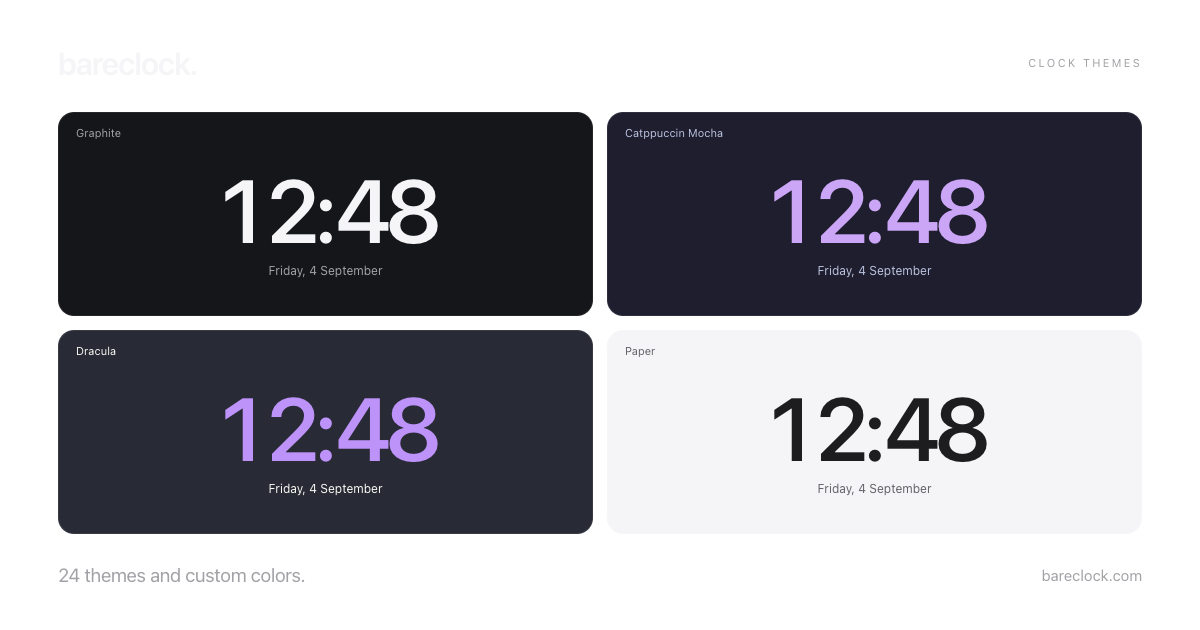
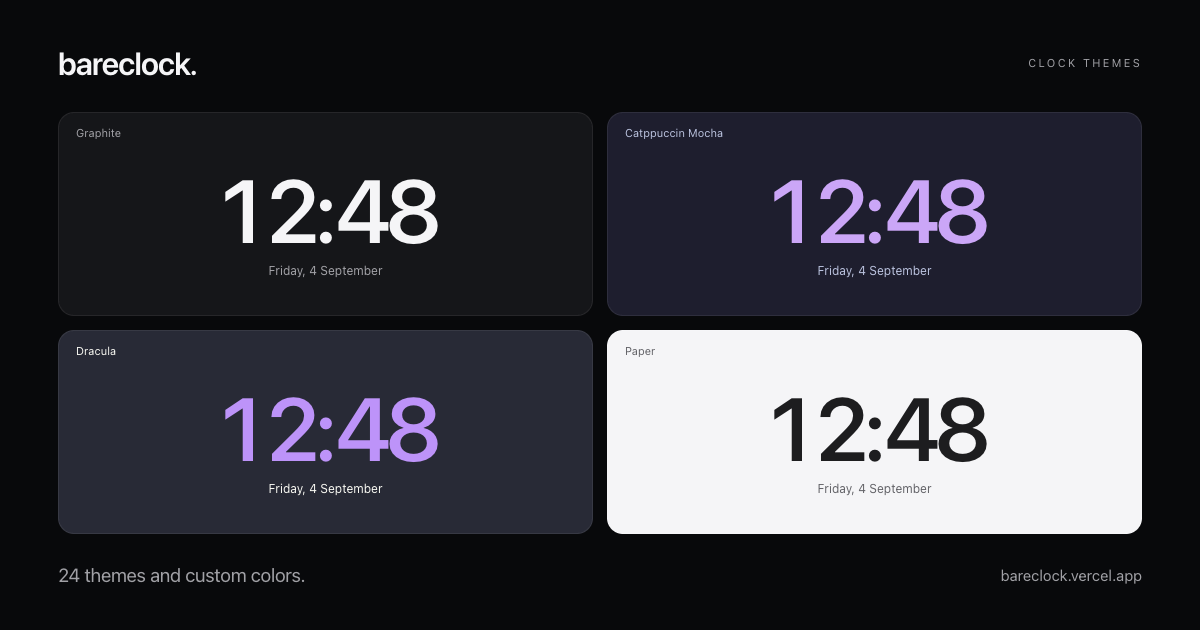
Big fixessss

diff --git a/styles.css b/styles.css
@@ -44,7 +44,7 @@ kbd { font:10px "SFMono-Regular",Consolas,monospace; border:1px solid var(--line
 .chrome { transition:opacity .4s; }
 .idle .chrome { opacity:0; }
 .idle .chrome:focus-within,.idle .chrome:hover { opacity:1; }
-.world-rail { width:174px; flex-shrink:0; align-self:center; max-height:100%; display:flex; flex-direction:column; }
+.world-rail { width:192px; flex-shrink:0; align-self:center; max-height:100%; display:flex; flex-direction:column; }
 .rail-heading { display:flex; justify-content:space-between; align-items:center; margin:0 0 10px 2px; color:var(--faint); font-size:9px; letter-spacing:2px; }
 .world-list { display:flex; flex-direction:column; gap:10px; overflow:auto; scrollbar-width:thin; scrollbar-color:var(--line) transparent; padding:3px; }
 .world-tile { position:relative; display:flex; flex-direction:column; text-align:left; background:var(--card); border:1px solid transparent; border-radius:18px; min-height:144px; flex-shrink:0; padding:0; transition:border-color .15s,background .15s; }
@@ -52,11 +52,14 @@ kbd { font:10px "SFMono-Regular",Consolas,monospace; border:1px solid var(--line
 .world-tile:has(.world-select[aria-pressed="true"]) { border-color:var(--faint); }
 .world-city { font-size:13px; font-weight:500; color:var(--muted); white-space:nowrap; overflow:hidden; text-overflow:ellipsis; max-width:100%; }
 .world-time { display:flex; align-items:baseline; gap:6px; font-size:34px; letter-spacing:-1.3px; font-weight:var(--digit-weight); font-variant-numeric:tabular-nums; margin:10px 0 6px; }
-.world-time small { font-size:10px; letter-spacing:0; color:var(--muted); }
+.world-time small { flex-shrink:0; font-size:.8em; font-weight:600; letter-spacing:.02em; color:var(--muted); }
 .world-relative { font-size:12px; color:var(--muted); }
-.world-rail.compact .world-tile { min-height:104px; padding:0; }
-.world-rail.compact .world-select { padding:13px 16px; }
-.world-rail.compact .world-time { font-size:28px; margin:7px 0 4px; }
+.world-rail.large { width:232px; }
+.world-rail.large .world-tile { min-height:170px; }
+.world-rail.large .world-select { padding:24px 22px; }
+.world-rail.large .world-time { font-size:40px; margin:12px 0 8px; }
+.world-rail.large .world-city { font-size:15px; }
+.world-rail.large .world-relative { font-size:14px; }
 
 /* Each flip leaf contains two clipped copies, hinged at the center. */
 .time-display.style-flip { font-size:calc(clamp(48px,23vw,310px) * var(--clock-scale)); font-size:calc(clamp(48px,23cqw,310px) * var(--clock-scale)); letter-spacing:-.045em; gap:0; align-items:center; margin:32px auto 30px; font-weight:500; }
@@ -148,7 +151,7 @@ h2 { font-size:12px; font-weight:400; margin:0; }
 .picker-note { font-size:10px; color:var(--faint); border-top:1px solid var(--line); padding:16px 24px; margin:10px 0 0; }
 .notice { position:fixed; bottom:28px; left:50%; transform:translateX(-50%); background:var(--panel); color:var(--fg); border:1px solid var(--line); border-radius:8px; padding:12px 18px; font-size:12px; box-shadow:var(--shadow); z-index:20; max-width:calc(100% - 32px); width:max-content; }
 .no-script { position:fixed; top:45%; width:100%; text-align:center; }
-@media (min-width:1500px) { .app { padding:0 64px; } .world-rail { width:178px; } .world-tile { min-height:150px; } }
+@media (min-width:1500px) { .app { padding:0 64px; } .world-rail { width:192px; } .world-tile { min-height:150px; } }
 @media (min-width:740px) {
   body:has(#settings-dialog[open]) .clock-layout { margin-right:348px; }
   body:has(#settings-dialog[open]) .world-rail { display:none; }
@@ -166,12 +169,12 @@ h2 { font-size:12px; font-weight:400; margin:0; }
   .place { font-size:17px; }
   .date-display { font-size:18px; }
   .keyboard-hints { display:none; }
-  .world-rail { width:100%; max-height:190px; padding-bottom:2px; }
+  .world-rail,.world-rail.large { width:100%; max-height:218px; padding-bottom:2px; }
   .rail-heading { margin-bottom:6px; }
   .world-list { flex-direction:row; }
-  .world-tile { width:154px; min-height:130px; padding:0; }
+  .world-tile { width:184px; min-height:130px; padding:0; }
   .world-select { padding:16px; }
-  .world-rail.compact .world-tile { width:140px; }
+  .world-rail.large .world-tile { width:224px; min-height:160px; }
   .time-display.style-flip { font-size:calc(24cqw * var(--clock-scale)); }
   .time-display.style-flip.has-seconds { font-size:calc(16cqw * var(--clock-scale)); }
   .time-display.style-digital { font-size:calc(26cqw * var(--clock-scale)); }
@@ -273,6 +276,19 @@ dialog { overscroll-behavior:contain; scrollbar-width:thin; scroll-padding-block
 .timezone-row > div { min-width:0; overflow-wrap:anywhere; }
 .text-button,.size-presets button,.theme-filters button,.about-link { min-height:32px; }
 .about-link { display:inline-flex; align-items:center; gap:8px; color:var(--muted); font-size:11px; text-underline-offset:4px; margin:0 0 12px; }
+.about-link { padding:0; text-decoration:underline; }
+.about-dialog { width:400px; max-width:calc(100% - 24px); max-height:calc(100vh - 24px); max-height:calc(100dvh - 24px); margin:auto; border-radius:20px; overflow:auto; color:var(--guide-fg); background:var(--guide-panel); border-color:var(--guide-line); }
+.about-dialog::backdrop { background:#0006; background:color-mix(in srgb,var(--guide-bg) 64%,transparent); }
+.about-heading { display:flex; align-items:center; justify-content:space-between; gap:16px; padding:20px 20px 0 24px; }
+.about-heading h2 { margin:0; font-size:24px; font-weight:600; letter-spacing:-.5px; }
+.about-dialog .icon-button { color:var(--guide-muted); }
+.about-dialog .icon-button:hover { color:var(--guide-fg); background:var(--guide-bg); }
+.about-content { padding:8px 24px 28px; font-size:14px; line-height:1.6; }
+.about-content > p { margin:0 0 16px; }
+.about-content > p:nth-child(2) { color:var(--guide-muted); }
+.about-content .creator-line { margin:24px 0 12px; color:var(--guide-muted); }
+.about-content .signature { color:var(--guide-fg); }
+.about-source { color:var(--guide-fg); font-size:13px; text-underline-offset:4px; }
 .theme-card:focus-visible,.city-result:focus-visible,.style-option:focus-visible { outline-offset:2px; }
 .world-select:focus-visible { outline-offset:-4px; }
 .size-slider { min-height:28px; }
@@ -467,8 +483,8 @@ dialog { overscroll-behavior:contain; scrollbar-width:thin; scroll-padding-block
 .map-zone-line { stroke:var(--display-time,var(--fg)); stroke-width:1.4; opacity:.72; }
 .map-zone-label { position:absolute; z-index:2; left:clamp(34px,var(--zone-x),calc(100% - 34px)); bottom:2.5%; translate:-50% 0; padding:3px 5px; border-radius:4px; color:var(--display-details,var(--muted)); background:var(--display-background,var(--bg)); font-size:9px; font-weight:650; line-height:1; letter-spacing:.8px; font-variant-numeric:tabular-nums; white-space:nowrap; }
 .map-face::after { content:""; position:absolute; inset:0; z-index:2; background:radial-gradient(ellipse 34% 29% at center,var(--display-background,var(--bg)) 10%,transparent 100%); pointer-events:none; }
-.map-time { position:absolute; inset:0; z-index:3; display:flex; align-items:center; justify-content:center; font-weight:var(--digit-weight); letter-spacing:-.055em; }
-.map-time-main { font-size:calc(clamp(70px,20cqw,220px) * var(--clock-scale)); }
+.map-time { position:absolute; inset:0; z-index:3; display:flex; align-items:center; justify-content:center; font-weight:var(--digit-weight); letter-spacing:normal; }
+.map-time-main { font-size:calc(clamp(70px,20cqw,220px) * var(--clock-scale)); letter-spacing:-.025em; }
 .map-seconds { font-size:calc(clamp(12px,3cqw,30px) * var(--clock-scale)); color:var(--display-details,var(--muted)); letter-spacing:0; margin:.4em 0 0 .55em; }
 .map-period { position:static; align-self:center; margin:.8em 0 0 .65em; font-size:clamp(11px,1.5cqw,17px); opacity:.82; }
 @media (max-width:700px) { .map-face { width:100%; width:min(100%,76dvh); height:min(43vw,38vh); } .map-time-main { font-size:calc(27vw * var(--clock-scale)); font-size:calc(27cqw * var(--clock-scale)); } .map-period { margin-top:.9em; font-size:11px; } .map-zone-label { font-size:8px; } }
@@ -516,9 +532,13 @@ button.primary-button:hover:not(:disabled),button.primary-button:focus-visible {
   .time-display.style-world { margin:0 auto 7px; }
   .map-face { width:min(68vw,84vh,300px); width:min(68cqw,84dvh,300px); height:min(34vw,42vh,150px); }
   .map-time-main { font-size:calc(min(16cqw,26dvh,110px) * var(--clock-scale)); }
-  .world-rail { width:150px; max-height:100%; padding:0; }
+  .world-rail { width:172px; max-height:100%; padding:0; }
   .world-list { flex-direction:column; }
-  .world-tile,.world-rail.compact .world-tile { width:100%; min-height:104px; }
+  .world-tile { width:100%; min-height:104px; }
+  .world-rail.large { width:208px; max-height:100%; }
+  .world-rail.large .world-tile { width:100%; min-height:132px; }
+  .world-rail.large .world-select { padding:16px 18px; }
+  .world-rail.large .world-time { font-size:36px; margin:8px 0 6px; }
   .world-select { padding:13px 15px; }
   .world-time { font-size:28px; margin:7px 0 4px; }
   .footer-left { gap:8px; }

diff --git a/index.html b/index.html
@@ -10,21 +10,21 @@
   <meta property="og:description" content="A simple fullscreen clock with world clocks, themes, and custom colors.">
   <meta property="og:type" content="website">
   <title>bareclock | Free Online Clock &amp; World Clocks</title>
-  <link rel="canonical" href="https://bareclock.com/">
+  <link rel="canonical" href="https://bareclock.vercel.app/">
   <meta name="robots" content="index, follow, max-image-preview:large">
   <meta property="og:site_name" content="bareclock">
-  <meta property="og:url" content="https://bareclock.com/">
-  <meta property="og:image" content="https://bareclock.com/assets/og/bareclock.png">
+  <meta property="og:url" content="https://bareclock.vercel.app/">
+  <meta property="og:image" content="https://bareclock.vercel.app/assets/og/bareclock.png">
   <meta property="og:image:width" content="1200">
   <meta property="og:image:height" content="630">
   <meta property="og:image:alt" content="bareclock showing 12:48 on a dark background.">
   <meta name="twitter:card" content="summary_large_image">
   <meta name="twitter:title" content="bareclock | A clock for your browser">
   <meta name="twitter:description" content="A free fullscreen clock with world clocks, flip and digital styles, and 24 themes. No account needed.">
-  <meta name="twitter:image" content="https://bareclock.com/assets/og/bareclock.png">
+  <meta name="twitter:image" content="https://bareclock.vercel.app/assets/og/bareclock.png">
   <meta name="twitter:image:alt" content="bareclock showing 12:48 on a dark background.">
   <link rel="apple-touch-icon" href="./assets/icons/apple-touch-icon.png">
-  <script type="application/ld+json">{"@context":"https://schema.org","@type":"WebApplication","name":"bareclock","url":"https://bareclock.com/","description":"A free online clock with fullscreen, world clocks, flip and digital styles, and customizable themes.","applicationCategory":"UtilitiesApplication","operatingSystem":"Any","browserRequirements":"Requires JavaScript and a modern web browser.","isAccessibleForFree":true,"offers":{"@type":"Offer","price":"0","priceCurrency":"USD"},"author":{"@type":"Person","name":"Rajin Khan","url":"https://rajinkhan.com"},"image":"https://bareclock.com/assets/og/bareclock.png"}</script>
+  <script type="application/ld+json">{"@context":"https://schema.org","@type":"WebApplication","name":"bareclock","url":"https://bareclock.vercel.app/","description":"A free online clock with fullscreen, world clocks, flip and digital styles, and customizable themes.","applicationCategory":"UtilitiesApplication","operatingSystem":"Any","browserRequirements":"Requires JavaScript and a modern web browser.","isAccessibleForFree":true,"offers":{"@type":"Offer","price":"0","priceCurrency":"USD"},"author":{"@type":"Person","name":"Rajin Khan","url":"https://rajinkhan.com"},"image":"https://bareclock.vercel.app/assets/og/bareclock.png"}</script>
   <link rel="icon" href="./icon.svg" type="image/svg+xml">
   <link rel="manifest" href="./manifest.webmanifest">
   <script>
@@ -142,7 +142,7 @@
       <p id="saved-empty" class="muted empty-message">No cities added yet.</p>
       <div id="saved-cities" class="saved-cities"></div>
       <label class="setting-row" for="show-world"><span>Show world clocks</span><input type="checkbox" id="show-world" class="switch"></label>
-      <div class="setting-row"><label for="tile-size">Tile size</label><select id="tile-size"><option value="comfortable">Comfortable</option><option value="compact">Compact</option></select></div>
+      <div class="setting-row"><label for="tile-size">Tile size</label><select id="tile-size"><option value="compact">Compact</option><option value="large">Large</option></select></div>
       <div class="section-divider"></div>
       <label class="setting-row wake-row" for="keep-awake"><span><span class="setting-label"><svg><use href="#i-clockmark"/></svg>Keep screen awake</span><small id="awake-status">While this tab is visible</small></span><input type="checkbox" id="keep-awake" class="switch"></label>
       <p id="offline-status" class="panel-note" role="status">Preferences stay in this browser.</p>
@@ -150,7 +150,7 @@
       <section class="settings-credit" aria-label="About bareclock">
         <p class="credit-wordmark">bareclock.</p>
         <p class="credit-note">A clock for your browser.</p>
-        <a class="about-link" href="./about/">About and help <span aria-hidden="true">↗</span></a>
+        <button id="about-button" class="about-link" aria-haspopup="dialog">About</button>
         <p class="creator-line"><span>Made by</span><a class="signature" href="https://rajinkhan.com" target="_blank" rel="noopener noreferrer" aria-label="Visit Rajin Khan's website">Rajin Khan</a></p>
 
         <details class="credit-sources"><summary>Credits & sources</summary>
@@ -158,6 +158,16 @@
           <p>City data by <a href="https://www.geonames.org/" target="_blank" rel="noopener noreferrer">GeoNames</a>, <a href="https://creativecommons.org/licenses/by/4.0/" target="_blank" rel="noopener noreferrer">CC BY 4.0</a>. Map data by <a href="https://www.naturalearthdata.com/" target="_blank" rel="noopener noreferrer">Natural Earth</a>. Font license: <a href="./assets/fonts/OFL.txt" target="_blank" rel="noopener noreferrer">SIL OFL 1.1</a>.</p>
         </details>
       </section>
+    </div>
+  </dialog>
+
+  <dialog id="about-dialog" class="about-dialog" aria-labelledby="about-title">
+    <div class="about-heading"><h2 id="about-title">About</h2><button class="icon-button" data-close="about-dialog" aria-label="Close about" autofocus><svg><use href="#i-close"/></svg></button></div>
+    <div class="about-content">
+      <p>bareclock is a free, open-source clock for your browser.</p>
+      <p>Your settings stay in this browser. No account, ads, or analytics.</p>
+      <p class="creator-line"><span>Made by</span><a class="signature" href="https://rajinkhan.com" target="_blank" rel="noopener noreferrer">Rajin Khan</a></p>
+      <a class="about-source" href="https://github.com/rajin-khan/bareclock" target="_blank" rel="noopener noreferrer">View on GitHub</a>
     </div>
   </dialog>
 

diff --git a/app.js b/app.js
@@ -117,7 +117,7 @@ function syncControls() {
   $('main-zone-label').textContent = prefs.zone ? `${prefs.cityName || zoneName(prefs.zone)} / ${prefs.zone}` : 'Device timezone';
   $('reset-zone').hidden = isDeviceCity(prefs, deviceZone);
   $('world-rail').hidden = !prefs.showWorld || !prefs.cities.length;
-  $('world-rail').classList.toggle('compact', prefs.tileSize === 'compact');
+  $('world-rail').classList.toggle('large', prefs.tileSize === 'large');
   $('world-button').setAttribute('aria-label', prefs.cities.length ? (prefs.showWorld ? 'Hide world clocks' : 'Show world clocks') : 'World clocks');
   $('world-button').setAttribute('aria-pressed', String(prefs.showWorld && prefs.cities.length > 0));
 }
@@ -728,7 +728,7 @@ function showControls() {
     const remaining = idleDeadline - Date.now();
     if (remaining > 0) { idleTimer = setTimeout(checkIdle, remaining); return; }
     idleTimer = null;
-    if (!$('settings-dialog').open && !$('city-dialog').open && !$('onboarding-dialog').open && !document.querySelector('.chrome :focus-visible')) $('app').classList.add('idle');
+    if (!document.querySelector('dialog[open],.chrome :focus-visible')) $('app').classList.add('idle');
   };
   idleTimer = setTimeout(checkIdle, 4500);
 }
@@ -772,6 +772,7 @@ async function syncWakeLock() {
 }
 
 $('help-button').addEventListener('click', openOnboarding);
+$('about-button').addEventListener('click', () => { $('about-dialog').showModal(); showControls(); });
 $('onboarding-back').addEventListener('click', () => { onboardingStep = Math.max(0, onboardingStep - 1); syncOnboarding(); });
 $('onboarding-next').addEventListener('click', () => {
   const last = document.querySelectorAll('[data-onboarding-step]').length - 1;
@@ -852,7 +853,7 @@ document.addEventListener('fullscreenchange', () => {
 });
 document.addEventListener('keydown', e => {
   showControls();
-  if (e.metaKey || e.ctrlKey || e.altKey || e.repeat || e.target.matches('input,select,textarea,[contenteditable="true"]') || $('settings-dialog').open || $('city-dialog').open || $('onboarding-dialog').open) return;
+  if (e.metaKey || e.ctrlKey || e.altKey || e.repeat || e.target.matches('input,select,textarea,[contenteditable="true"]') || document.querySelector('dialog[open]')) return;
   if (e.key.toLowerCase() === 'f') { e.preventDefault(); fullscreen(); }
   if (e.key.toLowerCase() === 's') { e.preventDefault(); $('settings-button').click(); }
   if (e.key.toLowerCase() === 'w') { e.preventDefault(); $('world-button').click(); }

diff --git a/og/themes.html b/og/themes.html
@@ -1,3 +1,3 @@
 <!doctype html>
 <html lang="en"><head><meta charset="utf-8"><meta name="viewport" content="width=device-width,initial-scale=1"><meta name="robots" content="noindex, follow"><title>bareclock themes social preview</title><link rel="stylesheet" href="./preview.css"></head>
-<body><main class="canvas collection"><header><span class="brand">bareclock.</span><span class="quiet">CLOCK THEMES</span></header><div class="theme-sheet"><div class="theme graphite"><span class="theme-label">Graphite</span><div>12<span>:</span>48</div><p>Friday, 4 September</p></div><div class="theme mocha"><span class="theme-label">Catppuccin Mocha</span><div>12<span>:</span>48</div><p>Friday, 4 September</p></div><div class="theme dracula"><span class="theme-label">Dracula</span><div>12<span>:</span>48</div><p>Friday, 4 September</p></div><div class="theme paper"><span class="theme-label">Paper</span><div>12<span>:</span>48</div><p>Friday, 4 September</p></div></div><footer><span>24 themes and custom colors.</span><span class="url">bareclock.com</span></footer></main><script src="./export.js"></script></body></html>
+<body><main class="canvas collection"><header><span class="brand">bareclock.</span><span class="quiet">CLOCK THEMES</span></header><div class="theme-sheet"><div class="theme graphite"><span class="theme-label">Graphite</span><div>12<span>:</span>48</div><p>Friday, 4 September</p></div><div class="theme mocha"><span class="theme-label">Catppuccin Mocha</span><div>12<span>:</span>48</div><p>Friday, 4 September</p></div><div class="theme dracula"><span class="theme-label">Dracula</span><div>12<span>:</span>48</div><p>Friday, 4 September</p></div><div class="theme paper"><span class="theme-label">Paper</span><div>12<span>:</span>48</div><p>Friday, 4 September</p></div></div><footer><span>24 themes and custom colors.</span><span class="url">bareclock.vercel.app</span></footer></main><script src="./export.js"></script></body></html>

diff --git a/about/index.html b/about/index.html
@@ -6,18 +6,18 @@
   <title>About bareclock | A Minimal Fullscreen Online Clock</title>
   <meta name="description" content="How to use bareclock, a free online clock with fullscreen, world clocks, 24 themes, and simple, flip, and digital displays. No account or tracking.">
   <meta name="theme-color" content="#08090b">
-  <link rel="canonical" href="https://bareclock.com/about/">
+  <link rel="canonical" href="https://bareclock.vercel.app/about/">
   <meta property="og:type" content="website">
   <meta property="og:site_name" content="bareclock">
   <meta property="og:title" content="About bareclock">
   <meta property="og:description" content="How to use bareclock, a simple fullscreen clock with world clocks and themes.">
-  <meta property="og:url" content="https://bareclock.com/about/">
-  <meta property="og:image" content="https://bareclock.com/assets/og/themes.png">
+  <meta property="og:url" content="https://bareclock.vercel.app/about/">
+  <meta property="og:image" content="https://bareclock.vercel.app/assets/og/themes.png">
   <meta property="og:image:width" content="1200">
   <meta property="og:image:height" content="630">
   <meta property="og:image:alt" content="Four bareclock displays in Graphite, Catppuccin Mocha, Dracula and Paper.">
   <meta name="twitter:card" content="summary_large_image">
-  <meta name="twitter:image" content="https://bareclock.com/assets/og/themes.png">
+  <meta name="twitter:image" content="https://bareclock.vercel.app/assets/og/themes.png">
   <meta name="robots" content="index, follow, max-image-preview:large">
   <link rel="icon" href="../icon.svg" type="image/svg+xml">
   <link rel="stylesheet" href="./about.css">

diff --git a/tests/static.test.js b/tests/static.test.js
@@ -11,8 +11,8 @@ function pngSize(buffer) {
 
 test('public pages expose one useful heading and complete canonical social metadata', async () => {
   for (const [path, canonical, image] of [
-    ['index.html', 'https://bareclock.com/', 'https://bareclock.com/assets/og/bareclock.png'],
-    ['about/index.html', 'https://bareclock.com/about/', 'https://bareclock.com/assets/og/themes.png'],
+    ['index.html', 'https://bareclock.vercel.app/', 'https://bareclock.vercel.app/assets/og/bareclock.png'],
+    ['about/index.html', 'https://bareclock.vercel.app/about/', 'https://bareclock.vercel.app/assets/og/themes.png'],
   ]) {
     const html = await read(path);
     assert.equal((html.match(/<h1\b/g) || []).length, 1, `${path} should have one h1`);
@@ -41,9 +41,9 @@ test('social and app images have exact production dimensions', async () => {
 
 test('crawler files name only public canonical pages', async () => {
   const [robots, sitemap] = await Promise.all([read('robots.txt'), read('sitemap.xml')]);
-  assert.match(robots, /Sitemap: https:\/\/bareclock\.com\/sitemap\.xml/);
+  assert.match(robots, /Sitemap: https:\/\/bareclock\.vercel\.app\/sitemap\.xml/);
   assert.deepEqual([...sitemap.matchAll(/<loc>(.+?)<\/loc>/g)].map(match => match[1]), [
-    'https://bareclock.com/',
-    'https://bareclock.com/about/',
+    'https://bareclock.vercel.app/',
+    'https://bareclock.vercel.app/about/',
   ]);
 });

diff --git a/og/index.html b/og/index.html
@@ -1,3 +1,3 @@
 <!doctype html>
 <html lang="en"><head><meta charset="utf-8"><meta name="viewport" content="width=device-width,initial-scale=1"><meta name="robots" content="noindex, follow"><title>bareclock social preview</title><link rel="stylesheet" href="./preview.css"></head>
-<body><main class="canvas hero"><header><span class="brand">bareclock.</span><span class="quiet">A CLOCK FOR YOUR BROWSER</span></header><div class="face"><p class="city">Dhaka</p><div class="time">12<span class="colon">:</span>48</div><p class="date">Friday, 4 September</p></div><footer><span>Fullscreen clock with world times and themes.</span><span class="url">bareclock.com</span></footer></main><script src="./export.js"></script></body></html>
+<body><main class="canvas hero"><header><span class="brand">bareclock.</span><span class="quiet">A CLOCK FOR YOUR BROWSER</span></header><div class="face"><p class="city">Dhaka</p><div class="time">12<span class="colon">:</span>48</div><p class="date">Friday, 4 September</p></div><footer><span>Fullscreen clock with world times and themes.</span><span class="url">bareclock.vercel.app</span></footer></main><script src="./export.js"></script></body></html>

diff --git a/sw.js b/sw.js
@@ -1,4 +1,4 @@
-const CACHE = 'bareclock-v8';
+const CACHE = 'bareclock-v12';
 const DIRECTORY_CACHE = 'clock-citydata-2026-09-04';
 const ASSETS = ['./', './index.html', './styles.css', './app.js', './time.js', './appearance.js', './cities.js', './city-directory.js', './city-worker.js', './about/', './assets/world-map.svg', './about/about.css', './icon.svg', './assets/icons/icon-192.png', './assets/icons/icon-512.png', './assets/icons/apple-touch-icon.png', './manifest.webmanifest', './assets/fonts/la-belle-aurore-latin.woff2'];
 const DIRECTORY_PATHS = new Set(['./data/cities.json.gz', './data/cities.json'].map(path => new URL(path, self.location).href));

diff --git a/time.js b/time.js
@@ -179,7 +179,7 @@ export function normalizePreferences(raw) {
     cityRegion: typeof p.cityRegion === 'string' ? p.cityRegion.slice(0, 200) : '',
     cityCountry: typeof p.cityCountry === 'string' ? p.cityCountry.slice(0, 100) : '',
     showWorld: p.showWorld !== false,
-    tileSize: oneOf('tileSize', ['comfortable', 'compact'], 'comfortable'),
+    tileSize: oneOf('tileSize', ['compact', 'large'], 'compact'),
     keepAwake: p.keepAwake === true,
     cities: cities.filter((city, index) => !cities.slice(0, index).some(previous => sameCity(city, previous))),
   };

diff --git a/tests/time.test.js b/tests/time.test.js
@@ -139,3 +139,10 @@ test('size and display preferences validate and dates retain the chosen timezone
   assert.equal(dateAt(now, 'Asia/Dhaka', 'numeric'), '2027-01-01');
   assert.equal(dateAt(now, 'Asia/Dhaka', 'short'), 'Fri, 1 Jan');
 });
+
+test('world clock sizes default to compact and preserve the large choice', () => {
+  for (const tileSize of [undefined, 'comfortable', 'compact', 'invalid']) {
+    assert.equal(normalizePreferences({ tileSize }).tileSize, 'compact');
+  }
+  assert.equal(normalizePreferences({ tileSize: 'large' }).tileSize, 'large');
+});

diff --git a/docs/architecture.md b/docs/architecture.md
@@ -6,7 +6,7 @@ bareclock is a static site with no build step or executable dependencies. Serve 
 
 | File | Responsibility |
 | --- | --- |
-| `index.html`, `styles.css` | Clock, settings, city picker, and help |
+| `index.html`, `styles.css` | Clock, settings, city picker, About modal, and help |
 | `app.js` | UI events, clock faces, scheduling, and browser APIs |
 | `time.js` | Timezones, dates, preferences, clock swaps, and solar geometry |
 | `appearance.js` | Themes, custom colors, and contrast |
@@ -40,6 +40,6 @@ Bump `CACHE` in `sw.js` when changing cached app files, and publish those files 
 
 ## Public URLs and social images
 
-Canonical metadata currently targets `https://bareclock.com/`. If hosting at another domain, update `index.html`, `about/index.html`, `robots.txt`, `sitemap.xml`, and the expectations in `tests/static.test.js`. The app is intended to run at the domain root.
+Canonical metadata currently targets `https://bareclock.vercel.app/`. If hosting at another domain, update `index.html`, `about/index.html`, `robots.txt`, `sitemap.xml`, and the expectations in `tests/static.test.js`. The app is intended to run at the domain root.
 
 To regenerate social images, open `/og/index.html` or `/og/themes.html` through the local server, choose Render PNG, and save the download under `assets/og/`. The images must remain 1200 × 630 pixels. `/og/icon.html` provides the app icon source.

diff --git a/README.md b/README.md
@@ -2,7 +2,7 @@
 
 A clock for your browser. Open a tab, pick a face, and go fullscreen.
 
-[bareclock.com](https://bareclock.com) · [Report a bug](https://github.com/rajin-khan/bareclock/issues/new?template=bug_report.md) · [Contribute](CONTRIBUTING.md)
+[bareclock.vercel.app](https://bareclock.vercel.app) · [Report a bug](https://github.com/rajin-khan/bareclock/issues/new?template=bug_report.md) · [Contribute](CONTRIBUTING.md)
 
 ![bareclock with a large clock and world clocks on a dark background](assets/og/bareclock.png)
 
@@ -10,7 +10,7 @@ A clock for your browser. Open a tab, pick a face, and go fullscreen.
 
 - Eight clock faces: Simple, Flip, Digital, Dial, Stack, Halo, Horizon, and World.
 - 24 themes, including Dracula, Catppuccin, Nord, and Rosé Pine, plus custom colors.
-- World clocks with search across 235,669 cities and towns. Click a world clock to swap it with the main clock.
+- World clocks with search across 235,669 cities and towns. Choose Compact or Large tiles. Click a world clock to swap it with the main clock.
 - Adjustable size, digit weight, date display, seconds, and 12- or 24-hour time.
 - Fullscreen, optional screen wake lock, and layouts for desktop and mobile.
 - Offline use after the first successful load. The full city directory is available offline after you load it once.
